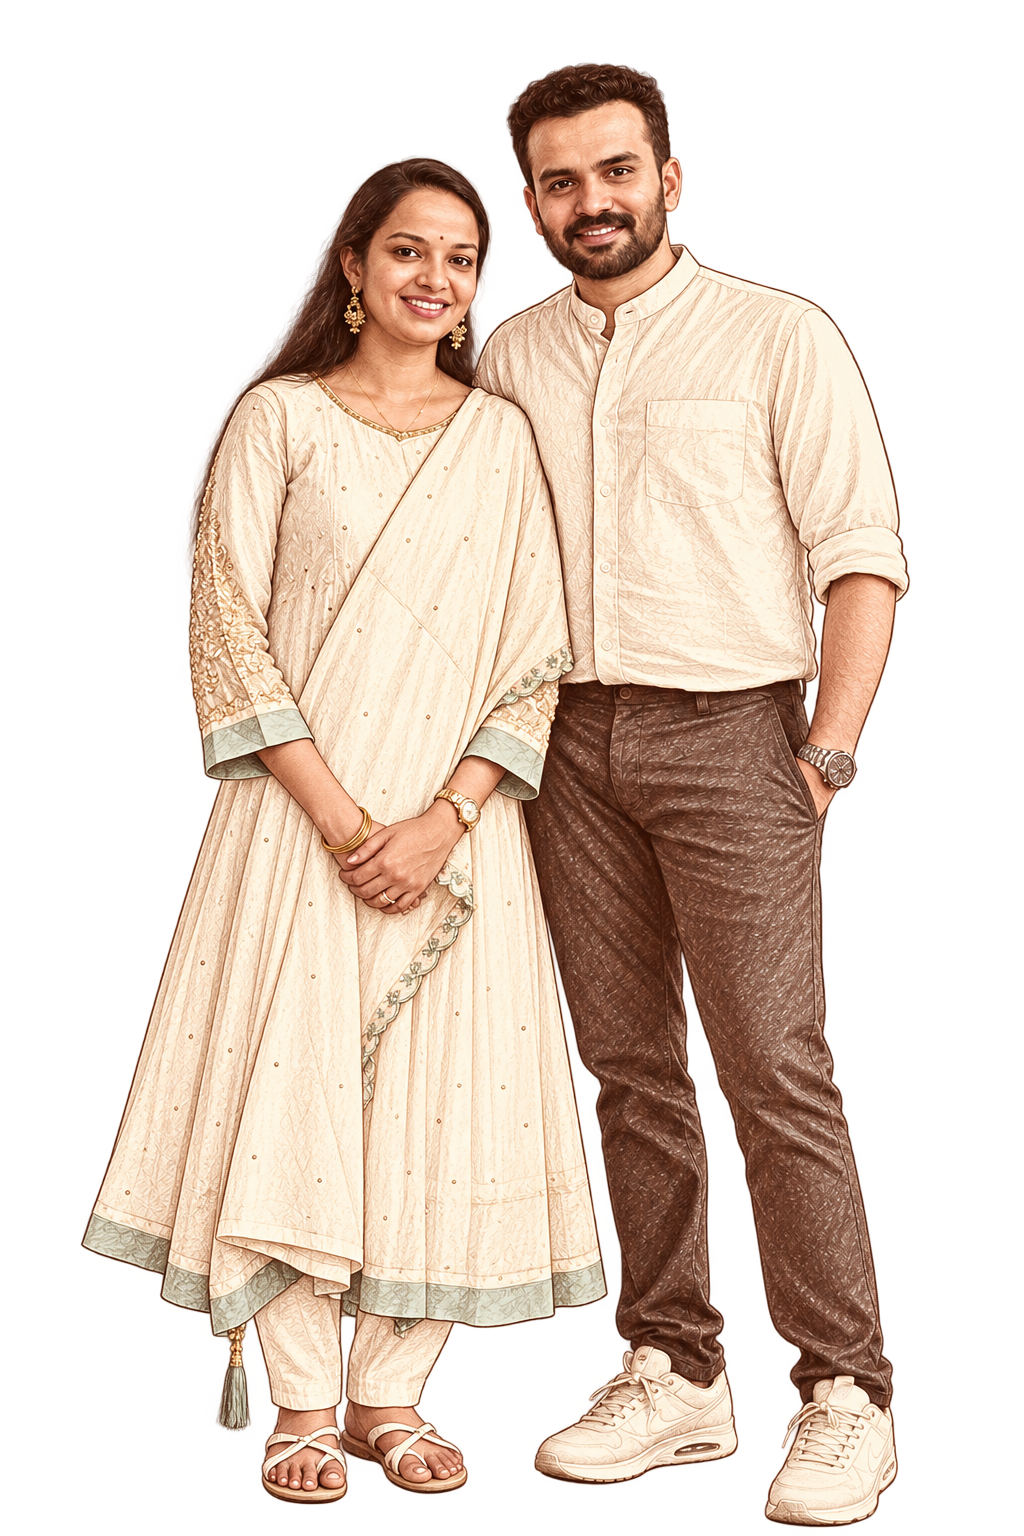
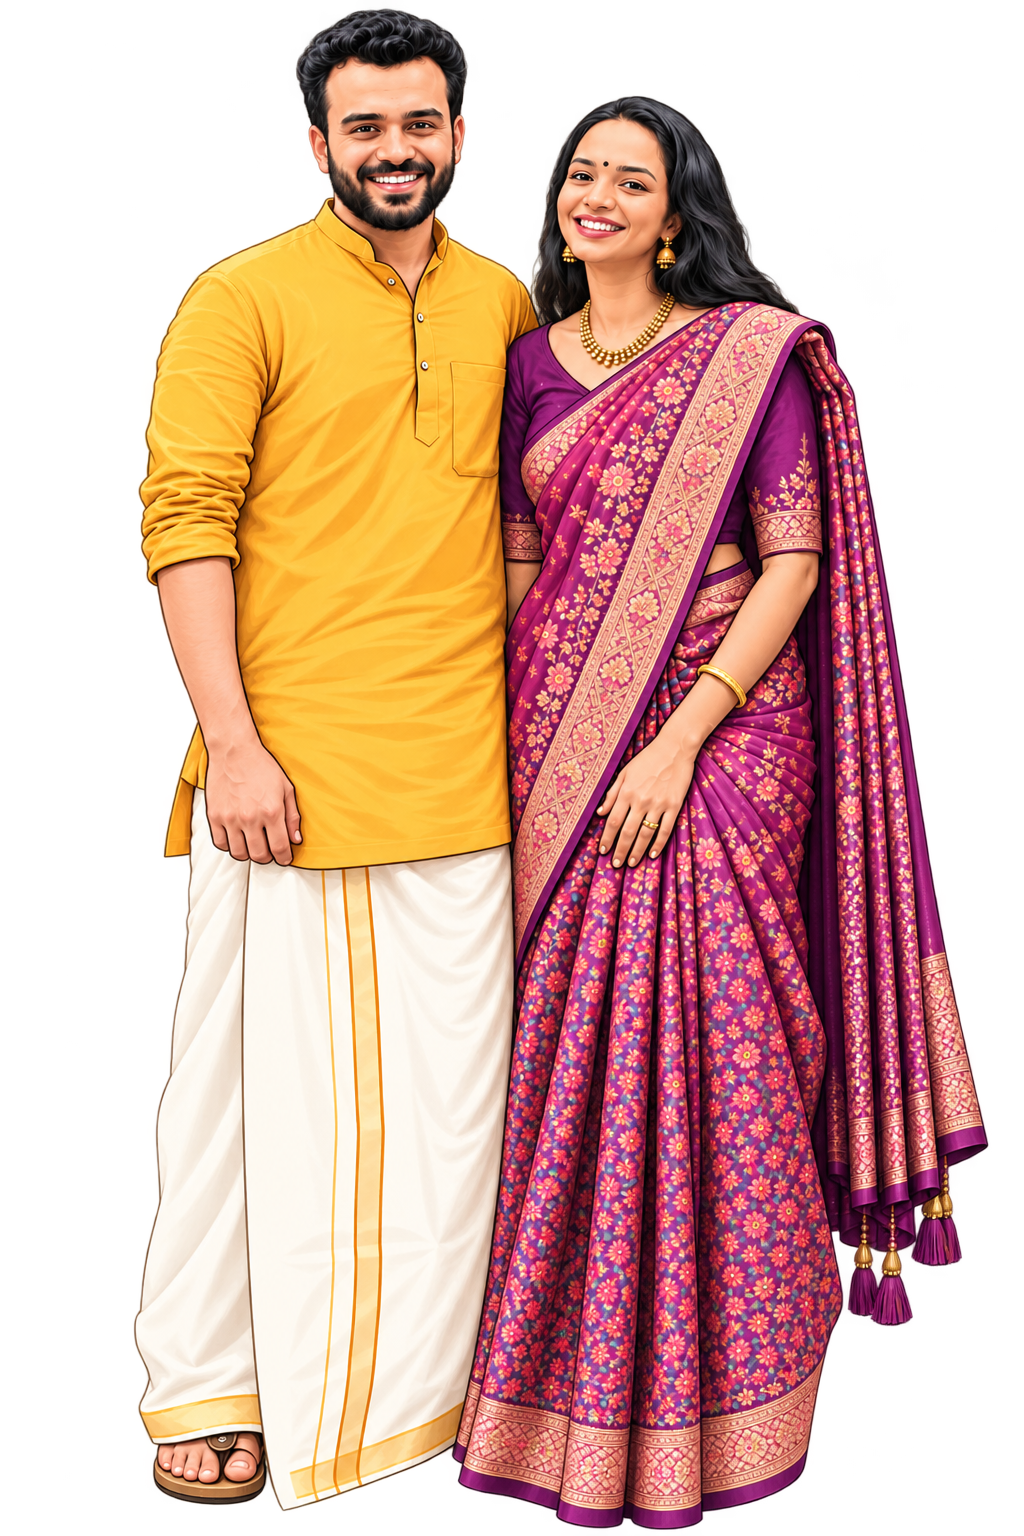
modified the content and photos

diff --git a/Karthik_Deepa_wedding.html b/Karthik_Deepa_wedding.html
@@ -1,5 +1,5 @@
 <!doctype html><html><head><meta charset=utf8><meta name=viewport content="width=device-width,initial-scale=1,viewport-fit=cover"><style>:root{color-scheme:light;box-sizing:border-box;padding-top:env(safe-area-inset-top,0px);padding-bottom:env(safe-area-inset-bottom,0px)}html{scroll-padding-top:env(safe-area-inset-top,0px)}body{margin:0;padding:0;font:14px -apple-system,BlinkMacSystemFont,sans-serif;background:#fff;color:#000}img{max-width:100%}[hidden]:not([hidden=until-found i]){display:none!important}</style></head><body>
-<title>Karthik Pramod & Deepa Prabha wedding Recception</title>
+<title>Karthik Pramod & Deepa Prabha wedding</title>
 <meta name="claude:viewport-fit-sides" content="cover">
 <link rel="preconnect" href="https://fonts.googleapis.com">
 <link rel="preconnect" href="https://fonts.gstatic.com" crossorigin>
@@ -202,7 +202,7 @@
   <div class="door door-r" aria-hidden="true"><span class="ring"></span></div>
   <div class="gate-inner">
[1 lines of base64/hex data omitted]
-    <p class="blessing">Hare Krishna</p>
+    <!-- <p class="blessing">Hare Krishna</p> -->
     <p class="gate-names"><span style="white-space: nowrap;">Karthik Pramod</span> <br> &amp; <br> <span style="white-space: nowrap;">Deepa Prabha</span></p>
     <p class="gate-date">January 31, 2027</p>
     <div class="actions">
@@ -227,9 +227,9 @@
[1 lines of base64/hex data omitted]
       <p class="blessing">Hare Krishna</p>
       <hr class="rule">
-      <p class="announce">Dear Friends and Family, we are pleased to announce the Wedding Reception of our son</p>
+      <p class="announce">Dear Friends and Family, we are pleased to announce the marriage of our son</p>
       <h1 class="name">Karthik Pramod</h1>
-      <p class="join">is getting married to</p>
+      <p class="join">with</p>
       <h2 class="name">Deepa Prabha</h2>
       <p class="groom-line">D/o P V Pradeep and Bindu Pradeep<br>Panapparambil House, perinjanam, Thrissur</p>
     </div>
@@ -237,7 +237,7 @@
   </section>
 
   <section class="countdown" aria-live="off">
-    <p class="label">Counting down to the Reception</p>
+    <p class="label">Counting down to the Wedding</p>
     <div class="count-grid" id="count-grid">
       <div class="count-cell"><span class="count-num" id="c-days">31</span><span class="count-unit">Days</span></div>
       <div class="count-cell"><span class="count-num" id="c-hours">00</span><span class="count-unit">Hours</span></div>
@@ -257,12 +257,14 @@
       </div>
       <div class="cell">
         <svg viewBox="0 0 48 48" aria-hidden="true"><circle cx="24" cy="24" r="18"/><path d="M24 12v12l8 5"/></svg>
+        <p class="label">Wedding time</p>
+        <p class="big">10:15 – 10:45 AM</p>
         <p class="label">Reception time</p>
         <p class="big">6:00 – 9:30 PM</p>
       </div>
       <div class="cell">
         <svg viewBox="0 0 48 48" aria-hidden="true"><path d="M10 6c2 16 8 24 14 24s12-8 14-24"/><path d="M24 30v3"/><circle cx="24" cy="38" r="4.5"/></svg>
-        <p class="label">Thalikettu</p>
+        <p class="label">Wedding Ceremony venue</p>
         <p class="big">Yamuna Wedding Castle, Perinjanam</p>
       </div>
       <div class="cell">
@@ -272,23 +274,23 @@
       </div>
     </div>
     <div class="actions">
-      <a class="btn solid" href="https://www.google.com/maps/place/Yamuna+Wedding+Castle/@10.3175141,76.1467191,17z/data=!3m1!4b1!4m6!3m5!1s0x3b081e277e841185:0x5ba6c3328244021!8m2!3d10.3175141!4d76.1467191!16s%2Fg%2F11crxrykyn?entry=ttu&g_ep=EgoyMDI2MTAxOC4wIKXMDSoASAFQAw%3D%3D" target="_blank" rel="noopener">Thalikettu on map</a>
+      <a class="btn solid" href="https://www.google.com/maps/place/Yamuna+Wedding+Castle/@10.3175141,76.1467191,17z/data=!3m1!4b1!4m6!3m5!1s0x3b081e277e841185:0x5ba6c3328244021!8m2!3d10.3175141!4d76.1467191!16s%2Fg%2F11crxrykyn?entry=ttu&g_ep=EgoyMDI2MTAxOC4wIKXMDSoASAFQAw%3D%3D" target="_blank" rel="noopener">Wedding Venue on map</a>
       <a class="btn solid" href="https://www.google.com/maps/place/Ashis+Convention+Centre/@10.0521008,76.3208037,17z/data=!3m1!4b1!4m6!3m5!1s0x3b080d52e47eb70d:0xf2c360cbe797352e!8m2!3d10.0521008!4d76.3208037!16s%2Fg%2F11gxxhfcs9?entry=ttu&g_ep=EgoyMDI2MTAxOC4wIKXMDSoASAFQAw%3D%3D" target="_blank" rel="noopener">Reception Venue on map</a>
       <a class="btn" href="https://calendar.google.com/calendar/render?action=TEMPLATE&amp;text=Karthik+Pramod+weds+Deepa+Prabha&amp;dates=20270131/20270201&amp;details=Wedding+Ceremony" target="_blank" rel="noopener">Add to Google Calendar</a>
     </div>
   </section>
 
   <section class="words">
-    <p class="lead">You are cordially invited with your family to witness and bless the bridal couple and attend the subsequent marriage Reception. We seek your valued presence.</p>
+    <p class="lead">You are cordially invited with your family to witness and bless the bridal couple and attend the subsequent wedding and Reception. We seek your valued presence.</p>
     <hr class="rule">
     <p class="with-love">With Love,</p>
     <p class="hosts">Dr. Pramod Pavithran &amp; Neetha Balakrishnan</p>
     <p class="address">Krishna, Grace Gardens, Thrikkakara P.O</p>
     <div class="phone-row">
       <span class="label">Mob</span>
-      <span class="phone" id="phone">70 12 32 98 20</span>
+      <span class="phone" id="phone">94 47 10 66 63</span>
       <button class="btn" type="button" id="copy-phone">Copy number</button>
-      <a class="btn" href="tel:+917012329820">Call</a>
+      <a class="btn" href="tel:+919447106663">Call</a>
     </div>
   </section>
 
@@ -298,7 +300,7 @@
 
 <script>
 (function () {
-  var target = new Date('2027-01-31T18:30:00+05:30').getTime();
+  var target = new Date('2027-01-31T10:30:00+05:30').getTime();
   var ids = { d: 'c-days', h: 'c-hours', m: 'c-mins', s: 'c-secs' };
   var el = {};
   Object.keys(ids).forEach(function (k) { el[k] = document.getElementById(ids[k]); });
@@ -331,7 +333,7 @@
     } catch (e) {}
   }
   btn.addEventListener('click', function () {
-    var text = '7012329820';
+    var text = '9447106663';
     var ok = function () { btn.textContent = 'Copied'; setTimeout(function () { btn.textContent = 'Copy number'; }, 1800); };
     var fail = function () { selectPhone(); btn.textContent = 'Number selected'; setTimeout(function () { btn.textContent = 'Copy number'; }, 1800); };
     try {
